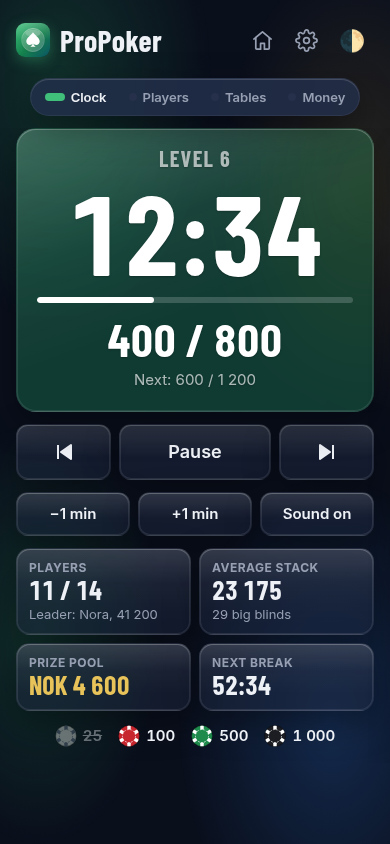
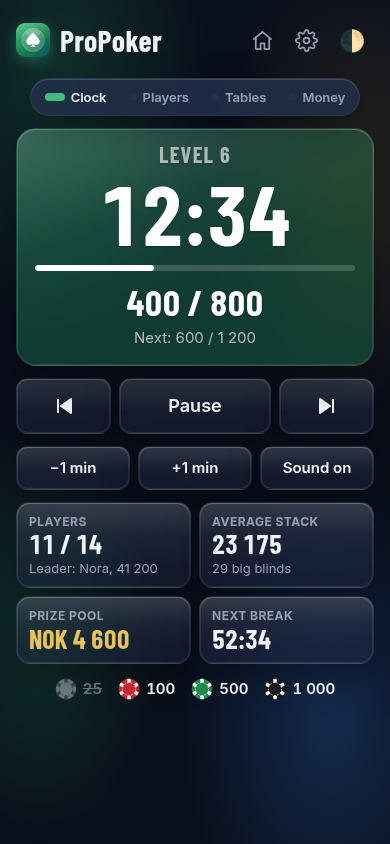
Smaller clock, whole-app colours, flat TV tables, all players on TV
- The big clock is about a quarter smaller in the app and on the TV
- The accent colour re-colours the whole app, light and dark
- TV: drawn tables always lie flat; Players lists everyone, out last
- TV view button at the top of the cog
- README, CLAUDE.md, PLAN decision log and pictures updated

Changed region(s): [[0.0308, 0.154, 0.9846, 0.8934], [0.4923, 0.8626, 0.6462, 0.8934], [0.9538, 0.6777, 0.9846, 0.7085]]

diff --git a/style.css b/style.css
@@ -470,7 +470,7 @@ legend + * { clear: both; }
 .clock {
   position: relative;
   text-align: center;
-  padding: 18px 20px 20px;
+  padding: 14px 18px 16px;
   border-radius: 20px;
   color: var(--felt-text);
   background-color: var(--felt);
@@ -482,10 +482,10 @@ legend + * { clear: both; }
   text-shadow: 0 1px 2px rgb(0 0 0 / 0.25);
 }
 .c-level { font: 700 22px/1 "Barlow Condensed", system-ui, sans-serif; letter-spacing: 0.06em; text-transform: uppercase; color: var(--felt-muted); }
-.countdown { font: 700 112px/1 "Barlow Condensed", system-ui, sans-serif; font-variant-numeric: tabular-nums; letter-spacing: 0; margin: 6px 0 2px; }
+.countdown { font: 700 84px/1 "Barlow Condensed", system-ui, sans-serif; font-variant-numeric: tabular-nums; letter-spacing: 0; margin: 6px 0 2px; }
 .clock.paused .countdown { opacity: 0.55; }
 .clock.warn .countdown { color: var(--felt-gold); }
-.c-blinds { font: 700 46px/1.05 "Barlow Condensed", system-ui, sans-serif; font-variant-numeric: tabular-nums; }
+.c-blinds { font: 700 36px/1.05 "Barlow Condensed", system-ui, sans-serif; font-variant-numeric: tabular-nums; }
 .c-ante { font: 700 22px/1.2 "Barlow Condensed", system-ui, sans-serif; color: var(--felt-gold); }
 .c-ante:empty { display: none; }
 .c-next { margin-top: 6px; font-size: 15px; color: var(--felt-muted) !important; }
@@ -520,8 +520,8 @@ legend + * { clear: both; }
 /* The big announcement: a new level, a break */
 .overlay { position: fixed; inset: 0; z-index: 10; display: grid; place-items: center; padding: 16px; background: var(--backdrop); -webkit-backdrop-filter: blur(6px); backdrop-filter: blur(6px); animation: fade-in 0.2s ease-out; }
 .overlay-box { width: min(560px, 100%); padding: 28px 20px; text-align: center; border-radius: 24px; color: var(--felt-text); background-color: var(--felt); background-image: linear-gradient(160deg, rgb(255 255 255 / 0.22), transparent 60%); box-shadow: inset 0 1px 0 var(--felt-edge), 0 24px 60px rgb(0 0 0 / 0.35); animation: pop-in 0.25s ease-out; }
-:root[data-theme="dark"] .overlay-box { background-color: rgb(20 80 52 / 0.92); }
-@media (prefers-color-scheme: dark) { :root:not([data-theme="light"]) .overlay-box { background-color: rgb(20 80 52 / 0.92); } }
+:root[data-theme="dark"] .overlay-box { background-color: var(--felt-solid, rgb(20 80 52 / 0.92)); }
+@media (prefers-color-scheme: dark) { :root:not([data-theme="light"]) .overlay-box { background-color: var(--felt-solid, rgb(20 80 52 / 0.92)); } }
 .ov-title { font: 700 26px/1 "Barlow Condensed", system-ui, sans-serif; letter-spacing: 0.08em; text-transform: uppercase; color: var(--felt-muted); }
 .ov-main { margin: 10px 0 6px; font: 700 72px/1 "Barlow Condensed", system-ui, sans-serif; font-variant-numeric: tabular-nums; }
 .ov-sub { font: 700 24px/1.2 "Barlow Condensed", system-ui, sans-serif; color: var(--felt-gold); }
@@ -797,8 +797,8 @@ button.primary {
 /* ---------- Tablets and wide screens ---------- */
 @media (min-width: 600px) {
   .topbar, .tagline, main { max-width: 680px; }
-  .countdown { font-size: 150px; }
-  .c-blinds { font-size: 58px; }
+  .countdown { font-size: 112px; }
+  .c-blinds { font-size: 46px; }
   .facts { grid-template-columns: repeat(4, minmax(0, 1fr)); }
   .seats { grid-template-columns: repeat(5, minmax(0, 1fr)); }
 }
@@ -817,8 +817,8 @@ body.wide .pages { display: contents; }
 body.wide .page { padding: 0; }
 body.wide #page-clock { grid-area: clock; display: flex; flex-direction: column; min-height: 0; overflow-y: auto; }
 body.wide #page-clock .clock { flex: 1; display: flex; flex-direction: column; justify-content: center; }
-body.wide #page-clock .countdown { font-size: min(220px, 26vh); }
-body.wide #page-clock .c-blinds { font-size: min(84px, 10vh); }
+body.wide #page-clock .countdown { font-size: min(160px, 19vh); }
+body.wide #page-clock .c-blinds { font-size: min(64px, 8vh); }
 body.wide #page-clock .c-level { font-size: 30px; }
 body.wide #page-clock .c-ante { font-size: 32px; }
 body.wide #page-clock .c-next { font-size: 20px; }
@@ -888,27 +888,27 @@ body.tv-mode .topbar, body.tv-mode .tagline { display: none; }
 body.tv-mode main { max-width: none; margin: 0; padding: 0; }
 .tv:not([hidden]) { display: grid; grid-template-columns: minmax(0, 1fr); gap: 2vw; height: 100vh; padding: 3vh 2.5vw; box-sizing: border-box; }
 .tv.with-side { grid-template-columns: minmax(0, 58fr) minmax(0, 42fr); }
-.tv-main { display: flex; flex-direction: column; gap: 2vh; min-height: 0; }
-.tv-clock { flex: 1; display: flex; flex-direction: column; justify-content: center; min-height: 0; overflow: hidden; padding: 2.5vh 2vw; border-radius: 3vh; }
+.tv-main { display: flex; flex-direction: column; justify-content: center; gap: 3vh; min-height: 0; }
+.tv-clock { flex: none; display: flex; flex-direction: column; justify-content: center; min-height: 0; overflow: hidden; padding: 2.5vh 2vw; border-radius: 3vh; }
 .tv-brand { display: flex; align-items: center; justify-content: center; gap: 1.5vw; min-height: 0; margin-bottom: 1vh; font: 700 min(2.2vw, 4vh)/1.1 "Barlow Condensed", system-ui, sans-serif; text-transform: uppercase; letter-spacing: 0.04em; }
 .tv-brand:empty { display: none; }
 .tv-brand img { max-height: 8vh; max-width: 40%; object-fit: contain; }
 .tv-clock .c-level { font-size: min(3.4vw, 6vh); }
-.tv-clock .countdown { font-size: min(22vw, 36vh); margin: 0.5vh 0; }
-.tv.with-side .tv-clock .countdown { font-size: min(14vw, 27vh); }
+.tv-clock .countdown { font-size: min(17vw, 28vh); margin: 0.5vh 0; }
+.tv.with-side .tv-clock .countdown { font-size: min(11vw, 21vh); }
 .tv-clock .progress { height: 1vh; margin: 1vh 6%; }
-.tv-clock .c-blinds { font-size: min(7.5vw, 13vh); }
-.tv.with-side .tv-clock .c-blinds { font-size: min(5vw, 9vh); }
+.tv-clock .c-blinds { font-size: min(6vw, 10vh); }
+.tv.with-side .tv-clock .c-blinds { font-size: min(4.2vw, 7.5vh); }
 .tv-clock .c-ante { font-size: min(3vw, 5.5vh); }
 .tv-clock .c-next { margin-top: 1vh; font-size: min(2.2vw, 4vh); }
 .tv-facts { grid-template-columns: repeat(4, minmax(0, 1fr)); gap: 1vw; margin: 0; }
-.tv-facts .fact { padding: 1.4vh 1vw; border-radius: 2vh; }
-.tv-facts .fact-label { font-size: min(1.1vw, 2vh); white-space: nowrap; overflow: hidden; text-overflow: ellipsis; }
-.tv-facts .fact-value { font-size: min(2.5vw, 5vh); }
-.tv-facts .fact-sub { font-size: min(1.1vw, 2vh); }
+.tv-facts .fact { padding: 2vh 1.2vw; border-radius: 2vh; }
+.tv-facts .fact-label { font-size: min(1.05vw, 2vh); white-space: nowrap; overflow: hidden; text-overflow: ellipsis; }
+.tv-facts .fact-value { font-size: min(3vw, 6vh); }
+.tv-facts .fact-sub { font-size: min(1.2vw, 2.3vh); }
 .tv-chips { margin: 0; gap: 1vh 2vw; }
-.tv-chips .stack-chip { font-size: min(1.6vw, 3vh); }
-.tv-status { margin: 0; font-size: min(1.6vw, 3vh); }
+.tv-chips .stack-chip { font-size: min(1.9vw, 3.6vh); }
+.tv-status { margin: 0; font-size: min(1.8vw, 3.4vh); }
 .tv-status:empty { display: none; }
 .tv-side { display: none; flex-direction: column; min-height: 0; padding: 3vh 2vw; border-radius: 3vh; background: var(--glass); border: 1px solid var(--glass-line); box-shadow: var(--shadow); }
 .tv.with-side .tv-side { display: flex; }
@@ -918,6 +918,10 @@ body.tv-mode main { max-width: none; margin: 0; padding: 0; }
 .tv-rows li { display: flex; align-items: baseline; gap: 1.2vw; padding: 1vh 0; border-top: 1px solid var(--line); break-inside: avoid; }
 .tv-rows li:first-child { border-top: 0; }
 .tv-rows.two-cols { columns: 2; column-gap: 2.5vw; font-size: 0.85em; }
+.tv-rows.two-cols.many { font-size: 0.7em; }
+.tv-rows.two-cols.many li { padding: 0.6vh 0; }
+.tv-rows li.out { color: var(--muted); }
+.tv-rows li.out .tv-name { font-weight: 500; }
 .tv-rows.two-cols li { border-top: 0; border-bottom: 1px solid var(--line); }
 .tv-rows li.now { color: var(--green); font-weight: 700; }
 .tv-rows li.break { color: var(--muted); }
@@ -931,8 +935,9 @@ body.tv-mode main { max-width: none; margin: 0; padding: 0; }
 .tv-empty { color: var(--muted); }
 .tv-tables { display: grid; grid-auto-rows: minmax(0, 1fr); gap: 2vh; height: 100%; }
 .tv-tables.two-cols { grid-template-columns: 1fr 1fr; }
-.tv-tables .drawn-table { display: flex; justify-content: center; align-items: center; min-height: 0; height: 100%; margin: 0; }
-.tv-tables .poker-table { width: auto; height: 100%; max-width: 100%; max-height: 100%; }
+.tv-tables .drawn-table { display: flex; justify-content: center; align-items: center; min-height: 0; height: 100%; margin: 0; container-type: size; }
+/* As big as fits, always 3:2 (lying down), with room for the rail and the seats */
+.tv-tables .poker-table { width: min(88cqw, 132cqh); height: auto; }
 .tv-panel .seat-marker { pointer-events: none; }
 .tv-dots { display: flex; justify-content: center; gap: 1vw; margin-top: 1.5vh; }
 .tv-dots span { width: 1.2vh; height: 1.2vh; border-radius: 50%; background: var(--line); }

diff --git a/js/app.js b/js/app.js
@@ -2091,8 +2091,12 @@ function applyTheme() {
   const [icon, label] = THEMES[theme];
   $('theme-toggle').replaceChildren(el('span', { class: 'theme-icon' }, icon), el('span', { class: 'theme-label' }, tr(label)));
   $('theme-toggle').setAttribute('aria-label', tr('Theme: {theme}. Tap to change.', { theme: tr(label) }));
-  const dark = theme === 'dark' || (theme === 'auto' && darkQuery.matches);
-  document.querySelector('meta[name="theme-color"]').content = dark ? '#0a0f1c' : '#f1eee8';
+  barColour();
+}
+
+// The phone's bar takes the page's background (your accent colour's, if you chose one)
+function barColour() {
+  document.querySelector('meta[name="theme-color"]').content = getComputedStyle(document.documentElement).getPropertyValue('--bg').trim() || '#f1eee8';
 }
 $('theme-toggle').addEventListener('click', () => {
   theme = NEXT_THEME[theme];
@@ -2138,7 +2142,7 @@ function setupInstall() {
 
 // ---------- the TV view ----------
 
-const PANELS = { blinds: 'Blind levels', prizes: 'Prizes', players: 'Players left', tables: 'Tables', out: 'Knocked out' };
+const PANELS = { blinds: 'Blind levels', prizes: 'Prizes', players: 'Players', tables: 'Tables', out: 'Knocked out' };
 const CYCLES = [[0, 'Off'], [10, '10 s'], [20, '20 s'], [30, '30 s'], [60, '1 min']];
 const TV_SOUNDS = [['tv', 'On the TV'], ['main', 'On the main screen']];
 let tvPanel = 0; // which of the chosen panels shows now
@@ -2242,12 +2246,17 @@ const TV_RENDER = {
       el('ul', { class: 'tv-rows' }, T.prizeList(game).map((a, i) => el('li', {}, [el('span', { class: 'tv-lv' }, ord(i + 1)), el('span', { class: 'tv-name' }, byPlace.get(i + 1)?.name ?? ''), el('span', { class: 'tv-amount' }, cash(a))]))),
     ];
   },
+  // Everyone: those still in (biggest stack first), then those out (best place first)
   players() {
     const leaders = new Set(T.chipLeader(game).map((p) => p.id));
-    const list = [...T.inPlay(game)].sort((a, b) => (b.stack ?? -1) - (a.stack ?? -1) || a.name.localeCompare(b.name));
-    return [el('ul', { class: list.length > 10 ? 'tv-rows two-cols' : 'tv-rows' }, list.map((p) => el('li', { class: leaders.has(p.id) ? 'leader' : '' }, [
+    const inPlay = [...T.inPlay(game)].sort((a, b) => (b.stack ?? -1) - (a.stack ?? -1) || a.name.localeCompare(b.name));
+    const out = game.players.filter((p) => p.status !== 'in').sort((a, b) => (a.place ?? 99) - (b.place ?? 99));
+    const all = [...inPlay, ...out];
+    const seat = (p) => (all.length > 10 ? `${tr('T{n}', { n: p.table })} · ${p.seat}` : tr('Table {t}, seat {s}', { t: p.table, s: p.seat })); // short in two columns
+    const cls = ['tv-rows', all.length > 10 ? 'two-cols' : '', all.length > 22 ? 'many' : ''].filter(Boolean).join(' ');
+    return [el('ul', { class: cls }, all.map((p) => el('li', { class: p.status !== 'in' ? 'out' : leaders.has(p.id) ? 'leader' : '' }, [
       el('span', { class: 'tv-name' }, p.name),
-      el('span', { class: 'tv-time' }, p.stack != null ? stackText(p.stack) : tr('Table {t}, seat {s}', { t: p.table, s: p.seat })),
+      el('span', { class: 'tv-time' }, p.status !== 'in' ? (p.place ? tr('Out, {place}', { place: ord(p.place) }) : tr('Out')) : p.stack != null ? stackText(p.stack) : seat(p)),
     ])))];
   },
   tables() {
@@ -2380,6 +2389,7 @@ function applyBrand() {
   if (brand.logo) $('brand-logo').src = brand.logo;
   $('brand-logo').classList.toggle('plate', brand.plate);
   document.body.classList.toggle('has-logo', !!brand.logo);
+  barColour();
   if (TV_MODE) renderTvBrand();
   if ($('look-dialog').open) renderLook();
 }

diff --git a/js/brand.js b/js/brand.js
@@ -1,5 +1,7 @@
-// Your own accent colour: the app's felt green re-hued to it, for the light
-// and the dark look (like ProQuiz). No DOM code here; app.js puts the CSS in a <style>.
+// Your own accent colour, for the whole app (like ProQuiz): the felt green, the
+// background, the panels, the lines, the glow, the seats and the big announcement
+// re-hued to it, for the light and the dark look. Gold (money) and red stay.
+// No DOM code here; app.js puts the CSS in a <style>.
 
 export const ACCENTS = ['#2563eb', '#7c3aed', '#0d9488', '#ea580c', '#dc2626'];
 
@@ -16,13 +18,25 @@ export function hexToHsl(hex) {
   return { h: Math.round(h * 60), s: Math.round(s * 100), l: Math.round(l * 100) };
 }
 
-// The colour variables for one look: dark text on a light background, or the other way round
+// The colour variables for one look: dark text on a light background, or the other way round.
+// Each tone keeps its lightness; its hue becomes the accent's, its saturation at most the accent's.
 export function accentVars(hex, dark) {
   const { h, s } = hexToHsl(hex);
-  const c = (sat, light, alpha) => (alpha == null ? `hsl(${h} ${Math.min(s, sat)}% ${light}%)` : `hsl(${h} ${Math.min(s, sat)}% ${light}% / ${alpha})`);
+  const tone = (hue) => (sat, light, alpha) => `hsl(${(hue + 360) % 360} ${Math.min(s, sat)}% ${light}%${alpha == null ? '' : ` / ${alpha}`})`;
+  const c = tone(h);
+  const warm = tone(h + 50); // the other two glows, either side of the accent
+  const cool = tone(h - 50);
   return dark
-    ? { '--green': c(65, 55), '--on-green': c(60, 8), '--green-soft': c(35, 14), '--glow-a': c(60, 45, 0.22), '--felt': c(60, 26, 0.5) }
-    : { '--green': c(70, 30), '--on-green': '#ffffff', '--green-soft': c(45, 91), '--glow-a': c(60, 45, 0.3), '--felt': c(65, 24, 0.92) };
+    ? {
+        '--green': c(65, 55), '--on-green': c(60, 8), '--green-soft': c(35, 14), '--felt': c(60, 26, 0.5), '--felt-solid': c(60, 20, 0.92),
+        '--bg': c(47, 7), '--card': c(37, 14), '--line': c(32, 22), '--glass': c(36, 18, 0.5), '--glass-strong': c(36, 21, 0.88),
+        '--glow-a': c(60, 45, 0.22), '--glow-b': warm(60, 50, 0.14), '--glow-c': cool(70, 55, 0.2), '--seat': c(65, 6, 0.78),
+      }
+    : {
+        '--green': c(70, 30), '--on-green': '#ffffff', '--green-soft': c(45, 91), '--felt': c(65, 24, 0.92),
+        '--bg': c(27, 93), '--line': c(15, 85),
+        '--glow-a': c(60, 45, 0.3), '--glow-b': warm(70, 55, 0.22), '--glow-c': cool(80, 60, 0.18), '--seat': c(65, 9, 0.68),
+      };
 }
 
 // The CSS for both looks, with the same selectors as style.css (the phone's choice, or the theme button)

diff --git a/index.html b/index.html
@@ -440,6 +440,7 @@
   <dialog id="settings-dialog" class="scrolling">
     <div class="dialog-body">
       <h2 data-t>Tournament settings</h2>
+      <button id="g-tv" type="button" class="big" data-t>TV view</button>
       <div class="choices">
         <label><input id="g-sound" type="checkbox"><span data-t>Sounds</span></label>
         <label><input id="g-vibrate" type="checkbox"><span data-t>Vibrate</span></label>
@@ -455,7 +456,6 @@
         <button id="g-add-level" type="button" class="grow" data-t>Add level</button>
         <button id="g-add-break" type="button" class="grow" data-t>Add break</button>
       </div>
-      <button id="g-tv" type="button" class="big" data-t>TV view</button>
       <button id="g-count" type="button" class="big" data-t>Count chips</button>
       <button id="g-handover" type="button" class="big" data-t>Continue on another device</button>
       <button id="g-end" type="button" class="danger" data-t>End tournament</button>

diff --git a/test/brand.test.js b/test/brand.test.js
@@ -13,6 +13,7 @@ test('an accent re-hues the green, for light and dark', () => {
   assert.equal(accentVars('#2563eb', false)['--green'], 'hsl(221 70% 30%)');
   assert.equal(accentVars('#2563eb', true)['--green'], 'hsl(221 65% 55%)');
   assert.equal(accentVars('#808080', false)['--green'], 'hsl(0 0% 30%)', 'grey stays grey');
+  assert.equal(accentVars('#2563eb', true)['--bg'], 'hsl(221 47% 7%)', 'the background too');
   const css = accentCss('#2563eb');
   assert.match(css, /^:root \{ --green: hsl\(221/);
   assert.match(css, /:root\[data-theme="dark"\]/);

diff --git a/js/i18n.js b/js/i18n.js
@@ -76,7 +76,7 @@ export const NO = {
   'For example Friday Poker Club': 'For eksempel Fredagspokerklubben',
   'Accent colour': 'Aksentfarge',
   'Blind levels': 'Blindnivåer',
-  'Players left': 'Spillere igjen',
+  'Out, {place}': 'Ute, {place}',
   'Off': 'Av',
   '10 s': '10 s',
   '20 s': '20 s',

diff --git a/CLAUDE.md b/CLAUDE.md
@@ -44,7 +44,7 @@ Public repo `dbugger85/propoker`, GitHub Pages from `main` / root, live at https
 | `js/tournament.js` | The live tournament: create, knockouts, places from the order players went out, rebuy (also back in), add-on, paid, late entry, leave (chips stay or go), undo (last 20 copies of players/tables/counts), chips in play, prizes, deal, chip counts (`countStacks`, `countedTotal`, `countDifference`, `chipLeader`, `stackInBB`) |
 | `js/summary.js` | Results, most knockouts, `settlement()` (who pays whom; money paid in is with `settings.holder`, a player or `BANK`), the share text |
 | `js/share.js` | Links: settings with the players' names (`#s=`, `pickSettings`/`applySettings`) and a running tournament for another device (`#t=`, `encodeTournament`); JSON, deflate-raw, base64url after "#" (no server) |
-| `js/brand.js` | Your accent colour: `hexToHsl`, `accentVars` (the green, its soft tone, the glow and the felt re-hued, for light and dark), `accentCss` (both looks with style.css's theme selectors), `ACCENTS` (the swatches) |
+| `js/brand.js` | Your accent colour: `hexToHsl`, `accentVars` (the whole palette re-hued for light and dark: green, felt, background, cards, lines, glass, the three glows, the seats, `--felt-solid` for the dark announcement; gold and red stay), `accentCss` (both looks with style.css's theme selectors), `ACCENTS` (the swatches) |
 | `js/storage.js` | localStorage, all keys `propoker.*`; the open tournament and the filed-away ones (`switchTo`, `savedTournaments`, `saveSaved`, `deleteSaved`, `clearCurrent`, `worthKeeping`); the TV choices (`propoker.tv`, `loadTv`/`saveTv`, `TV_PANELS`), the TV's heartbeat (`markTvSeen`/`tvOpen`) and your look (`propoker.brand`, `loadBrand`/`saveBrand`/`cleanBrand`: name, accent, logo as a data URL, plate) |
 | `js/alerts.js` | Web Audio beeps (1 min left, new level, break), vibration, Wake Lock |
 | `js/i18n.js` | English/Norwegian |
@@ -61,7 +61,7 @@ Public repo `dbugger85/propoker`, GitHub Pages from `main` / root, live at https
 - **Chip counts**: each player has `stack` (last count, or null) and `stackLevel`; `game.counts` is the history. At a break the clock page shows **Count chips** (also in the cog, and "Chip count" in a player's options for one player). The popup lists players table by table in seat order; empty boxes keep the last count; Enter jumps to the next box; the bottom compares with chips in play (warning only). Rebuys/add-ons after a count add to the stack, a knockout clears it, late/back-in players get a known stack once there's been a count. The chip leader shows as the Players fact's sub-line, a badge on the Players page and a gold ring on the drawn table; the Players page can sort by stack.
 - **Tables**: drawn by default (`drawnTable()`: a felt stadium with a `--rail`, seats placed by `seatPositions`, aspect 3:2 to match `TABLE_ASPECT`); the **List** toggle (`propoker.tableView`, per device) shows the old seat grid. Phone: tables stacked; tablet upright (≥ 680 px): two side by side; sideways: stacked in the panel. Pending movers pulse amber with "→ seat". The dealer's spot (top middle, `dealerSpot()`; seats from the dealer's left via `seatPositions(…, dealer)`) is on unless turned off in the cog (`propoker.dealer`, per device). After every change `replan()` works out the moves from where people sit (`game.pending`); the popup opens with them, a banner stays until "They have moved". "Someone else" picks another player from the same table for a balance move. **Manual moves** (owner's wish): tap a player's seat, then any seat at any table; two players swap, an empty seat is a move.
 - **Money**: pool, money in (paid so far, of the total), still to pay, paid places, prizes by place, and a Payments list (who owes first; tap for Paid everything / Paid part / Not paid, `openPayment()`). Nobody has paid at the start. Payouts can be changed during the game.
-- **TV view** (owner's wish): the same page with `?tv` (`TV_MODE`), opened from the cog's **TV view** dialog (`#tv-dialog`: panels, Change every, facts and chips under the clock, sounds on the TV or the main screen; saved in `propoker.tv`, and the dialog works in both windows). `startTv()`: `body.tv-mode`, always `data-theme="dark"`, `#screen-tv`, a "Start the TV view" click (full screen, unlocks audio, Wake Lock). It never saves the tournament: `tvTick()` catches the clock up locally, beeps, and calls `levelChanged()` (the big announcement) when the level differs from the last one shown; the main window's writes reach it through the `storage` event (`propoker.tournament`, `propoker.tv`, `propoker.brand`). The clock drawing is shared: `paintClock(prefix, box)`, `clockFacts()`, `clockStatus()`, `renderChipLegend(box)`. Panels (`TV_RENDER`: blinds with clock times, prizes, players by stack, drawn tables, knocked out) cycle every `tv.cycle` seconds with dots. The TV writes `propoker.tvSeen` every 3 s; `sounds()` plays in one window only. Sizes in `vw`/`vh` (`.tv*` at the end of style.css).
-- **Your logo and colours** (owner's wish, like ProQuiz): `#look-dialog` from the main menu's link or the TV dialog. `applyBrand()` puts `accentCss()` in `<style id="brand-style">` and the logo in the top bar (`#brand-logo`, `body.has-logo` hides the ProPoker name); the TV shows logo and name in `#tv-brand`. Pictures are scaled to at most 800 px (`logoData()`, WebP or PNG), SVGs kept as they are (≤ 300 KB), 2 MB at most; if localStorage refuses it, an error says so. Included in Export everything and applied on Import.
+- **TV view** (owner's wish): the same page with `?tv` (`TV_MODE`), opened from the cog's **TV view** button (at the top of the cog, owner's wish) and its dialog (`#tv-dialog`: panels, Change every, facts and chips under the clock, sounds on the TV or the main screen; saved in `propoker.tv`, and the dialog works in both windows). `startTv()`: `body.tv-mode`, always `data-theme="dark"`, `#screen-tv`, a "Start the TV view" click (full screen, unlocks audio, Wake Lock). It never saves the tournament: `tvTick()` catches the clock up locally, beeps, and calls `levelChanged()` (the big announcement) when the level differs from the last one shown; the main window's writes reach it through the `storage` event (`propoker.tournament`, `propoker.tv`, `propoker.brand`). The clock drawing is shared: `paintClock(prefix, box)`, `clockFacts()`, `clockStatus()`, `renderChipLegend(box)`. Panels (`TV_RENDER`: blinds with clock times, prizes, all players (in play by stack, then out by place; two columns from 11, smaller from 23), drawn tables, knocked out) cycle every `tv.cycle` seconds with dots. The TV writes `propoker.tvSeen` every 3 s; `sounds()` plays in one window only. Sizes in `vw`/`vh` (`.tv*` at the end of style.css); the drawn tables use container units so they always lie flat at 3:2, one or several.
+- **Your logo and colours** (owner's wish, like ProQuiz): `#look-dialog` from the main menu's link or the TV dialog. `applyBrand()` puts `accentCss()` in `<style id="brand-style">` (the whole app follows, owner's wish; `barColour()` gives the phone's bar the new background) and the logo in the top bar (`#brand-logo`, `body.has-logo` hides the ProPoker name); the TV shows logo and name in `#tv-brand`. Pictures are scaled to at most 800 px (`logoData()`, WebP or PNG), SVGs kept as they are (≤ 300 KB), 2 MB at most; if localStorage refuses it, an error says so. Included in Export everything and applied on Import.
 - **Links**: "Share these settings" (setup) and "Continue on another device" (cog) share a link via the share sheet (else copy). On load, `openSharedSettings()` / `openSharedTournament()` read the hash, ask first, then clear it; both make a new tournament in the list (settings links during a running game are only filed away, so the clock isn't stopped); with a link, the "clock kept running" question is skipped.
 - **The end**: when one player is left, or the cog's End tournament (with players left: a deal, split evenly by default). The summary has results ("Out by …"), settle-up (who sends what to whom, with a picker for who has the money paid in), won and lost (prize minus bought), facts, Share results (share sheet, else copy), Main menu, Play again (`copySetup()`: same setup and players), and a small Undo the last knockout / Undo the deal link (owner's wish: clearer buttons).

diff --git a/README.md b/README.md
@@ -107,10 +107,10 @@ The **⋮** button on each one has **New tournament with this setup** (a copy wi
 On a computer connected to a TV, the TV can show its own big screen while you run the tournament from yours.
 
 1. Connect the computer to the TV (for example with HDMI) and set the display to **extend** the screen, not mirror it.
-2. In the tournament, open the cog (⚙) and tap **TV view**. Choose what to show, then **Open TV view**. A new window opens. If the browser blocks it, allow pop-ups for the page.
+2. In the tournament, open the cog (⚙) and tap **TV view** at the top. Choose what to show, then **Open TV view**. A new window opens. If the browser blocks it, allow pop-ups for the page.
 3. Drag the new window to the TV and click **Start the TV view**. It goes full screen and can play the sounds.
 
-The TV shows the clock, the blinds, the next blinds and the antes in big letters, and under them the players left, the average stack, the prize pool, the next break and the chip values. Beside the clock it can show the **Blind levels** (with the clock time each one starts), the **Prizes**, the **Players left** (with their stacks after a chip count), the **Tables** seen from above, and who was **Knocked out**. Tick the ones you want: with more than one, they change every 10, 20 or 30 seconds or every minute (or **Off** to keep the first). Untick everything for just the clock. **Sounds** chooses whether the beeps and chimes play on the TV or on your own screen. A new level or a break is announced big on the TV.
+The TV shows the clock, the blinds, the next blinds and the antes in big letters, and under them the players left, the average stack, the prize pool, the next break and the chip values. Beside the clock it can show the **Blind levels** (with the clock time each one starts), the **Prizes**, the **Players** (everyone: those still in with their stacks after a chip count, then those out with their place), the **Tables** seen from above, and who was **Knocked out**. Tick the ones you want: with more than one, they change every 10, 20 or 30 seconds or every minute (or **Off** to keep the first). Untick everything for just the clock. **Sounds** chooses whether the beeps and chimes play on the TV or on your own screen. A new level or a break is announced big on the TV.
 
 Everything you do on your screen (knockouts, rebuys, pausing, a new level) shows on the TV within a second. Both windows must be in the same browser on the same computer. The TV keeps the right time by itself, even if you close your window. Move the mouse on the TV to see **What to show** and **Full screen**. The TV is always in the dark look.
 
@@ -123,7 +123,7 @@ Everything you do on your screen (knockouts, rebuys, pausing, a new level) shows
 
 - **Logo**: **Choose a logo** and pick a picture (PNG, JPG, WebP or SVG, up to 2 MB). It replaces the ProPoker name at the top of the app and shows big on the TV. **White backing behind the logo** helps a dark logo on the dark screens. **Remove logo** brings back ProPoker.
 - **Name on the TV**: for example "Friday Poker Club", shown over the clock on the TV (otherwise the tournament's name).
-- **Accent colour**: ProPoker green, blue, violet, teal, orange or red, or **+** for a colour of your own. It colours the buttons, the highlights and the big clock, in both light and dark mode.
+- **Accent colour**: ProPoker green, blue, violet, teal, orange or red, or **+** for a colour of your own. It colours the whole app in both light and dark mode: the background, the buttons, the highlights, the big clock and the tables. Gold (money) and red stay as they are.
 
 It's kept on this device for every tournament, and it comes along in **Export everything**.
 

diff --git a/PLAN.md b/PLAN.md
@@ -269,6 +269,8 @@ Same warm off-white page in light and navy `#0a0f1c` in dark, the same glass var
 - Tour pictures (owner's wish 2026-10-17): the start page's pictures follow the theme: dark pictures in dark mode, light in light mode, also when the theme is chosen by hand.
 - TV view (owner's wish 2026-10-17): a second window (`?tv`) for the TV, in the same browser on the same computer, kept up to date through the browser's storage event, so no server. The clock big, with chosen panels beside it (blind levels, prizes, players left, tables, knocked out) that change every 10–60 s or stay, and facts and chip values under the clock (each can be turned off). Sounds play on the TV or on the main screen, not both. Always dark.
 - Your logo and colours (owner's wish 2026-10-17, like ProQuiz): a logo (in place of the ProPoker name and big on the TV, with an optional white backing), a name for the TV and an accent colour that re-colours the app in light and dark. Kept on the device, included in Export everything.
+- TV and look fixes (owner's wish 2026-10-17): the TV's drawn tables always lie flat (3:2), also with one table; the accent colour now re-colours the whole app (background, cards, lines, glass, glows, seats, the announcement), not just the green; **TV view** is at the top of the cog.
+- Smaller clock (owner's wish 2026-10-17): the big clock is about a quarter smaller in the app (phone, tablet, sideways) and on the TV, leaving more room below; on the TV the facts and chip values get bigger. The TV's Players panel lists everyone, knocked-out players last with their place.
 
 ## 10. Table view and chip counts (planned 2026-10-16, built 2026-10-16)
 
